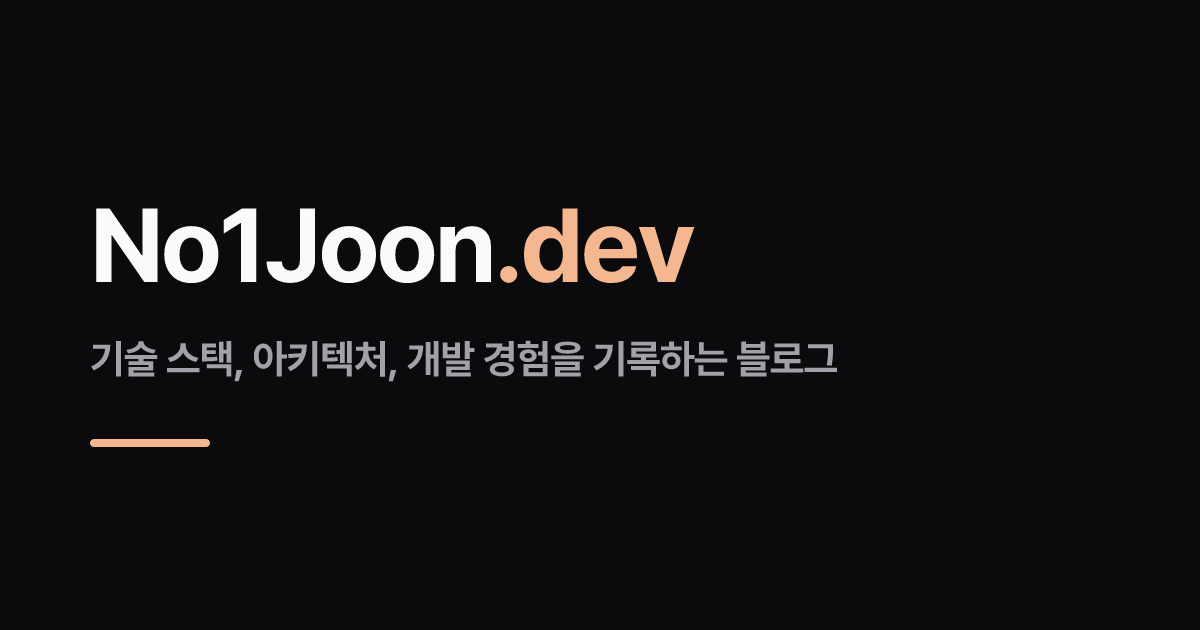
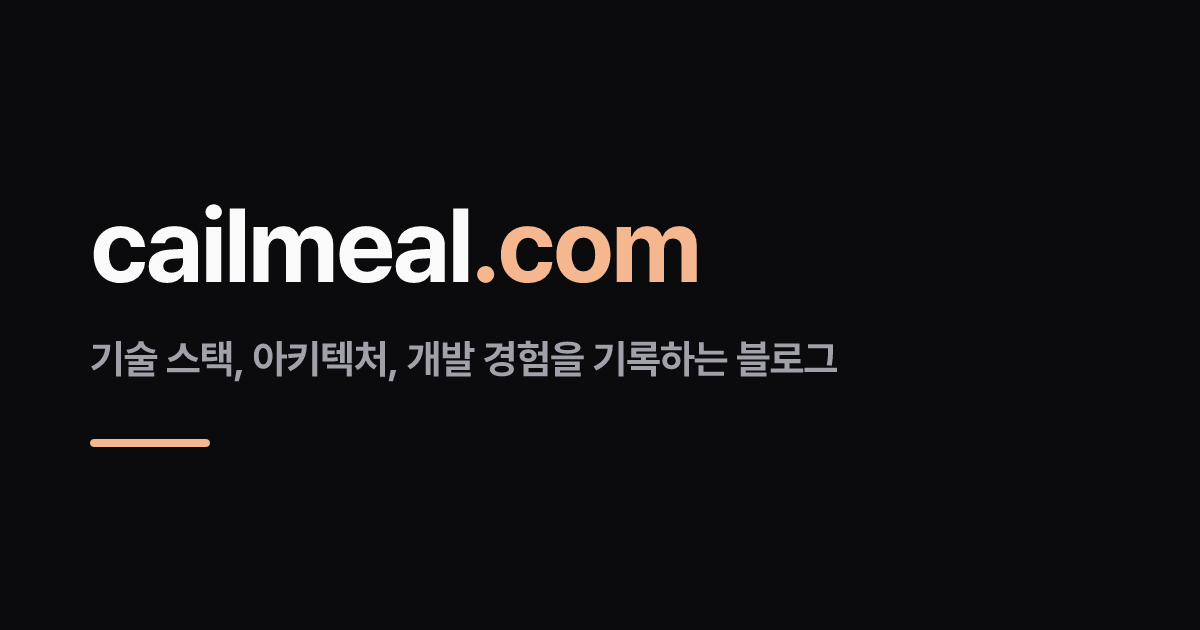
feat: 로고와 썸네일 이미지의 사이트 이름을 cailmeal.com 으로 교체 — 이전 No1Joon.dev·No1Joon.github.io 표기 정리

Changed region(s): [[0.0617, 0.3317, 0.5858, 0.4524]]

diff --git a/docs/design/wireframes-blog.html b/docs/design/wireframes-blog.html
@@ -99,7 +99,7 @@
     <div class="frame">
       <div class="caption">BROWSE 1 · 홈 목록 (모바일)</div>
       <div class="screen">
-        <div class="appbar"><span class="grow">No1Joon.dev</span><span class="side">검색</span><span class="side">이력서</span></div>
+        <div class="appbar"><span class="grow">cailmeal.com</span><span class="side">검색</span><span class="side">이력서</span></div>
         <div class="body">
           <div style="padding:10px 12px 4px; white-space:nowrap; overflow:hidden;">
             <span class="chip on">전체 63</span><span class="chip">AI 26</span><span class="chip">Tech 21</span><span class="chip">Daily Dev 6</span><span class="chip">Robot 4</span>
@@ -121,7 +121,7 @@
     <div class="frame wide">
       <div class="caption">BROWSE 1D · 홈 목록 (데스크톱 확장)</div>
       <div class="screen">
-        <div class="appbar"><span class="grow">No1Joon.dev</span><span class="side">검색</span><span class="side">이력서</span><span class="side">GitHub</span></div>
+        <div class="appbar"><span class="grow">cailmeal.com</span><span class="side">검색</span><span class="side">이력서</span><span class="side">GitHub</span></div>
         <div class="body">
           <div class="cols">
             <div class="c-list">
@@ -214,7 +214,7 @@
     <div class="frame wide">
       <div class="caption">READ 1D · 포스트 본문 (데스크톱 확장)</div>
       <div class="screen">
-        <div class="appbar"><span class="grow">No1Joon.dev</span><span class="side">검색</span><span class="side">이력서</span></div>
+        <div class="appbar"><span class="grow">cailmeal.com</span><span class="side">검색</span><span class="side">이력서</span></div>
         <div class="prog"></div>
         <div class="body">
           <div class="cols">
@@ -326,7 +326,7 @@
     <div class="frame">
       <div class="caption">SITE 1 · 이력서</div>
       <div class="screen">
-        <div class="appbar"><span class="grow">No1Joon.dev</span><span class="side">Posts</span><span class="side">GitHub</span></div>
+        <div class="appbar"><span class="grow">cailmeal.com</span><span class="side">Posts</span><span class="side">GitHub</span></div>
         <div class="body">
           <div style="padding:10px 12px">
             <div style="font-size:16px; font-weight:700">장현준</div>
@@ -346,7 +346,7 @@
     <div class="frame">
       <div class="caption">SITE 2 · 없는 주소 (404)</div>
       <div class="screen">
-        <div class="appbar"><span class="grow">No1Joon.dev</span><span class="side">검색</span></div>
+        <div class="appbar"><span class="grow">cailmeal.com</span><span class="side">검색</span></div>
         <div class="body">
           <div class="box" style="text-align:center; padding:22px 10px; margin-top:40px">
             <div>없는 주소입니다</div>

diff --git a/_layouts/default.html b/_layouts/default.html
@@ -48,7 +48,7 @@
 <body class="preload">
   <header class="site-header">
     <div class="inner">
-      <a href="{{ t.home | relative_url }}" class="site-title">No1Joon<span>.dev</span></a>
+      <a href="{{ t.home | relative_url }}" class="site-title">cailmeal<span>.com</span></a>
       <nav>
         <a href="{{ t.home | relative_url }}">Posts</a>
         <a href="{{ t.resources | relative_url }}">{{ t.resources_label }}</a>

diff --git a/_layouts/resume.html b/_layouts/resume.html
@@ -16,7 +16,7 @@
   <header class="site-header">
     <div class="inner">
       <div class="header-left">
-        <a href="{{ '/' | relative_url }}" class="site-title">No1Joon<span>.dev</span></a>
+        <a href="{{ '/' | relative_url }}" class="site-title">cailmeal<span>.com</span></a>
       </div>
       <nav>
         <a href="{{ '/' | relative_url }}">Posts</a>
